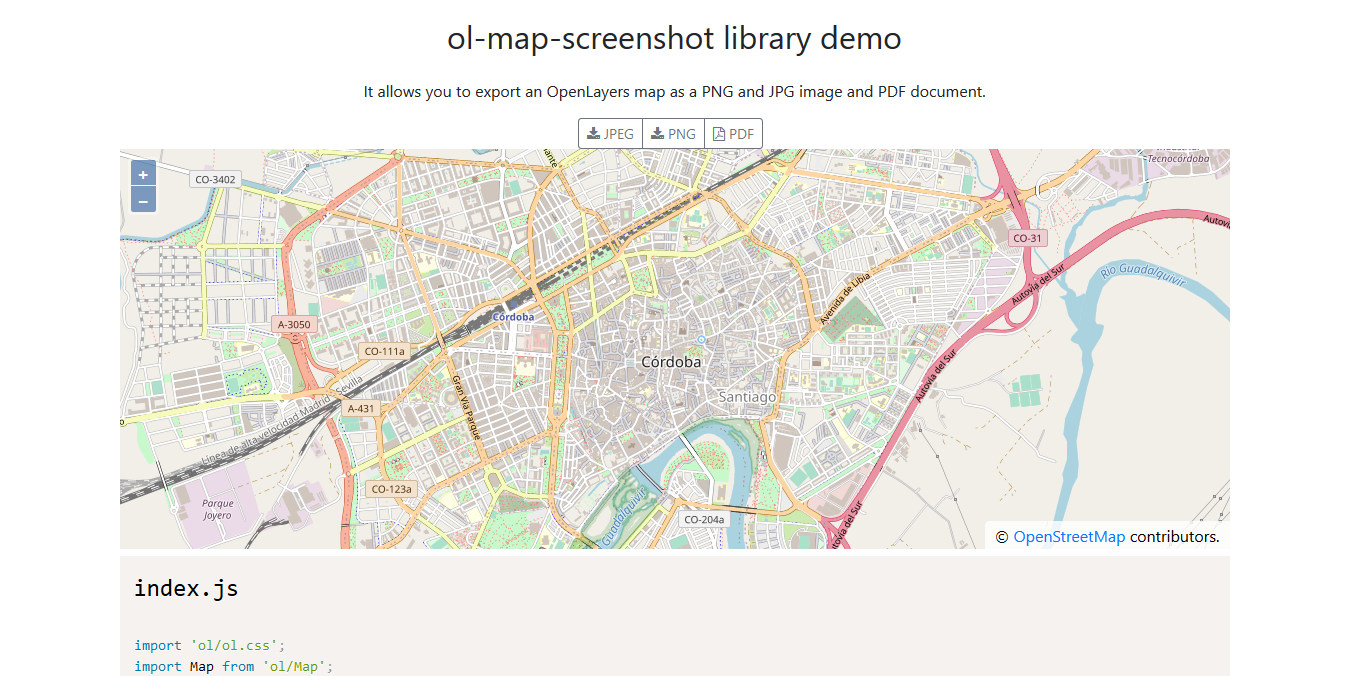
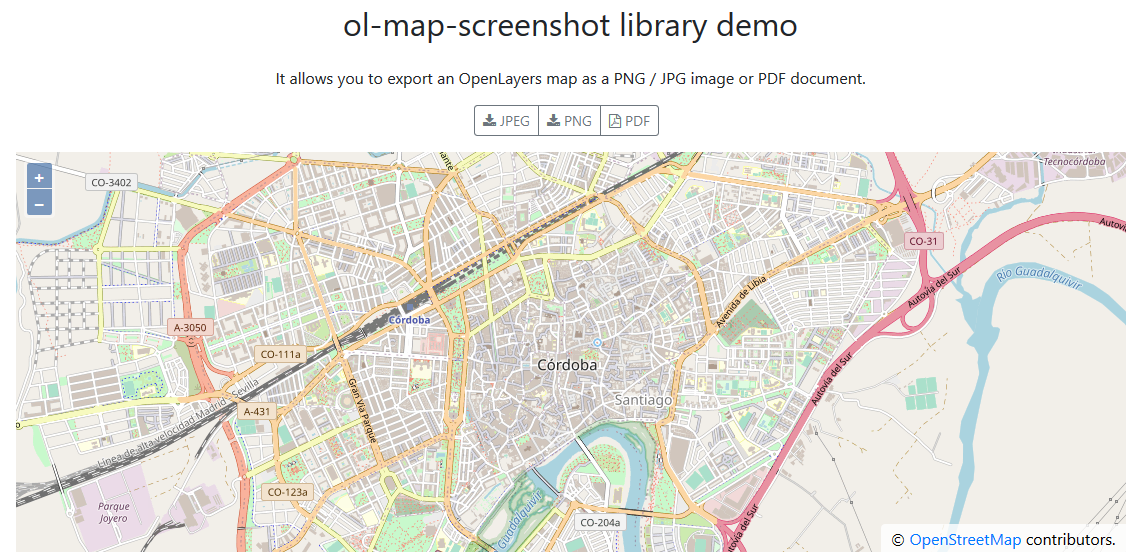
Update demo

diff --git a/example/dist/index.html b/example/dist/index.html
@@ -1,4 +1,4 @@
-<!DOCTYPE html><html><head><meta charset="utf-8"><title>OpenLayers Map Screenshot</title><meta charset="utf-8"><meta name="viewport" content="width=device-width, initial-scale=1, shrink-to-fit=no"><link rel="stylesheet" href="https://maxcdn.bootstrapcdn.com/font-awesome/4.4.0/css/font-awesome.min.css" type="text/css"><link rel="stylesheet" href="bootstrap.min.697c792c.css"><link rel="stylesheet" href="example.8d273846.css"><link href="prism.0ff39440.css" rel="stylesheet"><style>#map{width:100%;height:400px}</style><link rel="stylesheet" href="example.1f948dd0.css"></head><body> <div class="container text-center"> <h1 class="h2 py-3">ol-map-screenshot library demo</h1> <p>It allows you to export an OpenLayers map as a PNG and JPG image and PDF document.</p> <div class="row"> <div class="col-4"></div> <div class="col-4"> <div class="btn-group mr-2"> <button id="export-jpeg-button" type="button" class="btn btn-sm btn-outline-secondary"><i class="fa fa-download"></i> JPEG</button> <button id="export-png-button" type="button" class="btn btn-sm btn-outline-secondary"><i class="fa fa-download"></i> PNG</button> <button id="export-pdf-button" type="button" class="btn btn-sm btn-outline-secondary"><i class="fa fa-file-pdf-o"></i> PDF</button> </div> </div> <div class="col-4"></div> </div> <div class="row"> <div class="col-12"> <div id="map"></div> </div> </div> <div class="row-fluid"> <pre><legend>index.html</legend><code id="example-html-source" class="language-markup">
+<!DOCTYPE html><html><head><meta charset="utf-8"><title>OpenLayers Map Screenshot</title><meta charset="utf-8"><meta name="viewport" content="width=device-width, initial-scale=1, shrink-to-fit=no"><link rel="stylesheet" href="https://maxcdn.bootstrapcdn.com/font-awesome/4.4.0/css/font-awesome.min.css" type="text/css"><link rel="stylesheet" href="bootstrap.min.697c792c.css"><link rel="stylesheet" href="example.8d273846.css"><link href="prism.0ff39440.css" rel="stylesheet"><style>#map{width:100%;height:400px}</style><link rel="stylesheet" href="example.1f948dd0.css"></head><body> <div class="container text-center"> <h1 class="h2 py-3">ol-map-screenshot library demo</h1> <p>It allows you to export an OpenLayers map as a PNG / JPG image or PDF document.</p> <div class="row"> <div class="col-4"></div> <div class="col-4"> <div class="btn-group mr-2 mb-3"> <button id="export-jpeg-button" type="button" class="btn btn-sm btn-outline-secondary"><i class="fa fa-download"></i> JPEG</button> <button id="export-png-button" type="button" class="btn btn-sm btn-outline-secondary"><i class="fa fa-download"></i> PNG</button> <button id="export-pdf-button" type="button" class="btn btn-sm btn-outline-secondary"><i class="fa fa-file-pdf-o"></i> PDF</button> </div> </div> <div class="col-4"></div> </div> <div class="row"> <div class="col-12"> <div id="map"></div> </div> </div> <div class="row-fluid"> <pre><legend>index.html</legend><code id="example-html-source" class="language-markup">
 &lt;!DOCTYPE html&gt;
 &lt;html&gt;
     &lt;head&gt;

diff --git a/example/index.html b/example/index.html
@@ -24,11 +24,11 @@
 <body>
     <div class='container text-center'>
         <h1 class="h2 py-3">ol-map-screenshot library demo</h1>
-        <p>It allows you to export an OpenLayers map as a PNG and JPG image and PDF document.</p>
+        <p>It allows you to export an OpenLayers map as a PNG / JPG image or PDF document.</p>
         <div class='row'>
             <div class='col-4'></div>
             <div class='col-4'>
-                <div class="btn-group mr-2">
+                <div class="btn-group mr-2 mb-3">
                     <button id="export-jpeg-button" type="button" class="btn btn-sm btn-outline-secondary"><i class="fa fa-download"></i> JPEG</button>
                     <button id="export-png-button" type="button" class="btn btn-sm btn-outline-secondary"><i class="fa fa-download"></i> PNG</button>
                     <button id="export-pdf-button" type="button" class="btn btn-sm btn-outline-secondary"><i class="fa fa-file-pdf-o"></i> PDF</button>
